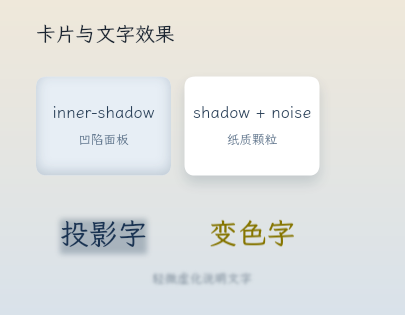
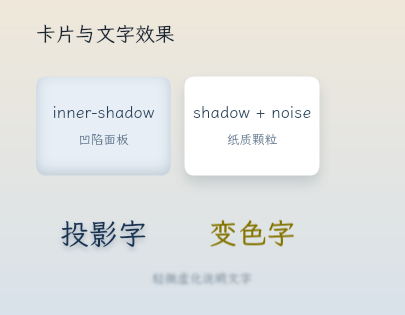
fix: apply effects to ink alpha, not layout boxes
Text shadow/glow/inner/noise follow glyph silhouettes so
projection matches real strokes instead of a blurred box.

Changed region(s): [[0.1481, 0.6857, 0.3852, 0.8286]]

diff --git a/src/paint.ts b/src/paint.ts
@@ -395,17 +395,27 @@ function paintGlow(ctx: CanvasRenderingContext2D, state: PaintState, node: Layou
   drawEffect(ctx, state, node, { ...wide, blur: Math.max(2, glow.blur * 0.35) }, drawSilhouette, 'screen')
 }
 
-function drawNodeSilhouette(
-  ctx: CanvasRenderingContext2D,
-  node: LayoutNode,
-  spread: number,
-  glyphs: boolean,
-  ink = SILHOUETTE,
-) {
-  if (node.kind === 'line') drawLine(ctx, node, true, spread)
-  else if (node.kind === 'shape') drawShapeSilhouette(ctx, node, spread, ink)
-  else if (node.kind === 'text' && glyphs) drawTextNode(ctx, node, ink)
-  else drawBoxSilhouette(ctx, node, spread, ink)
+/**
+ * 效果用的着墨轮廓：跟真实画出来的像素走，不跟布局盒子。
+ * 文字 = 背景 chrome（若有）+ 字形；形状/线 = 几何墨迹；Layer/flex = 仅自身背景/边框。
+ */
+function drawNodeInk(ctx: CanvasRenderingContext2D, node: LayoutNode, spread: number, ink = SILHOUETTE) {
+  if (node.kind === 'line') {
+    drawLine(ctx, node, true, spread)
+    return
+  }
+  if (node.kind === 'shape') {
+    drawShapeSilhouette(ctx, node, spread, ink)
+    return
+  }
+  if (node.kind === 'text') {
+    if (node.background && node.background !== 'transparent') drawBoxSilhouette(ctx, node, spread, ink)
+    drawTextNode(ctx, node, ink)
+    return
+  }
+  if ((node.background && node.background !== 'transparent') || (node.border && node.border.width > 0)) {
+    drawBoxSilhouette(ctx, node, spread, ink)
+  }
 }
 
 function transformScale(ctx: CanvasRenderingContext2D): number {
@@ -415,42 +425,11 @@ function transformScale(ctx: CanvasRenderingContext2D): number {
   return Math.sqrt(Math.abs(matrix.a * matrix.d - matrix.b * matrix.c)) || 1
 }
 
-function clipToNode(ctx: CanvasRenderingContext2D, node: LayoutNode) {
-  ctx.beginPath()
-  if (node.kind === 'shape') {
-    if (node.shape === 'circle') {
-      ctx.arc(node.x + node.width / 2, node.y + node.height / 2, node.r ?? node.width / 2, 0, Math.PI * 2)
-    } else if (node.shape === 'ellipse') {
-      ctx.ellipse(
-        node.x + node.width / 2,
-        node.y + node.height / 2,
-        node.rxEllipse ?? node.width / 2,
-        node.ry ?? node.height / 2,
-        0,
-        0,
-        Math.PI * 2,
-      )
-    } else if (node.borderRadius && node.borderRadius > 0) {
-      roundRectPath(ctx, node.x, node.y, node.width, node.height, node.borderRadius)
-    } else if (node.rx && node.rx > 0) {
-      roundRectPath(ctx, node.x, node.y, node.width, node.height, node.rx)
-    } else {
-      ctx.rect(node.x, node.y, node.width, node.height)
-    }
-  } else if (node.borderRadius && node.borderRadius > 0) {
-    roundRectPath(ctx, node.x, node.y, node.width, node.height, node.borderRadius)
-  } else {
-    ctx.rect(node.x, node.y, node.width, node.height)
-  }
-  ctx.clip()
-}
-
 function paintInnerEffect(
   ctx: PaintCtx,
   node: LayoutNode,
   effect: { x: number; y: number; blur: number; spread: number; color: string },
   blend: 'source-over' | 'screen',
-  glyphs: boolean,
 ) {
   if (node.width <= 0 || node.height <= 0) return
   const k = transformScale(ctx)
@@ -464,13 +443,13 @@ function paintInnerEffect(
   const fctx = fill.getContext('2d') as PaintCtx
   fctx.setTransform(k, 0, 0, k, 0, 0)
   fctx.translate(-node.x + pad, -node.y + pad)
-  drawNodeSilhouette(fctx, node, Math.max(0, effect.spread), glyphs, effect.color)
+  drawNodeInk(fctx, node, Math.max(0, effect.spread), effect.color)
 
   const cut = createCanvas(tw, th)
   const cctx = cut.getContext('2d') as PaintCtx
   cctx.setTransform(k, 0, 0, k, 0, 0)
   cctx.translate(-node.x + pad, -node.y + pad)
-  drawNodeSilhouette(cctx, node, -Math.max(0, effect.spread), glyphs, '#000000')
+  drawNodeInk(cctx, node, -Math.max(0, effect.spread), '#000000')
 
   const cutSoft = createCanvas(tw, th)
   const sctx = cutSoft.getContext('2d') as PaintCtx
@@ -483,8 +462,16 @@ function paintInnerEffect(
   fctx.globalCompositeOperation = 'destination-out'
   fctx.drawImage(cutSoft, 0, 0)
 
+  // 内效果也按墨迹 alpha 裁切，避免文字落成方块阴影
+  const clip = createCanvas(tw, th)
+  const clipCtx = clip.getContext('2d') as PaintCtx
+  clipCtx.setTransform(k, 0, 0, k, 0, 0)
+  clipCtx.translate(-node.x + pad, -node.y + pad)
+  drawNodeInk(clipCtx, node, 0, '#ffffff')
+  fctx.globalCompositeOperation = 'destination-in'
+  fctx.drawImage(clip, 0, 0)
+
   ctx.save()
-  clipToNode(ctx, node)
   ctx.globalCompositeOperation = blend
   ctx.drawImage(fill, node.x - pad, node.y - pad, twLogic, thLogic)
   ctx.restore()
@@ -494,9 +481,12 @@ function paintNoise(ctx: PaintCtx, node: LayoutNode, noise: NoiseSpec) {
   const w = Math.max(1, Math.ceil(node.width))
   const h = Math.max(1, Math.ceil(node.height))
   if (node.width <= 0 || node.height <= 0 || noise.amount <= 0) return
-  const off = createCanvas(w, h)
+  const k = transformScale(ctx)
+  const tw = Math.max(1, Math.ceil(w * k))
+  const th = Math.max(1, Math.ceil(h * k))
+  const off = createCanvas(tw, th)
   const octx = off.getContext('2d') as PaintCtx
-  const img = octx.createImageData(w, h)
+  const img = octx.createImageData(tw, th)
   const data = img.data
   let colorR = 255
   let colorG = 255
@@ -530,8 +520,15 @@ function paintNoise(ctx: PaintCtx, node: LayoutNode, noise: NoiseSpec) {
     data[i + 3] = Math.round(255 * noise.amount)
   }
   octx.putImageData(img, 0, 0)
+  // 按墨迹 alpha 裁切，文字不会整块铺噪点
+  const clip = createCanvas(tw, th)
+  const clipCtx = clip.getContext('2d') as PaintCtx
+  clipCtx.setTransform(k, 0, 0, k, 0, 0)
+  clipCtx.translate(-node.x, -node.y)
+  drawNodeInk(clipCtx, node, 0, '#ffffff')
+  octx.globalCompositeOperation = 'destination-in'
+  octx.drawImage(clip, 0, 0)
   ctx.save()
-  clipToNode(ctx, node)
   ctx.globalCompositeOperation = 'soft-light'
   ctx.drawImage(off, node.x, node.y, node.width, node.height)
   ctx.restore()
@@ -565,8 +562,14 @@ function paintBackdropBlur(ctx: PaintCtx, node: LayoutNode, radius: number) {
   bctx.filter = `blur(${radius * k}px)`
   bctx.drawImage(src, 0, 0)
   bctx.filter = 'none'
+  // 按墨迹 alpha 贴回，文字/异形不会整块毛玻璃
+  const mask = createCanvas(sw, sh)
+  const mctx = mask.getContext('2d') as PaintCtx
+  mctx.setTransform(matrix.a, matrix.b, matrix.c, matrix.d, matrix.e - minX, matrix.f - minY)
+  drawNodeInk(mctx, node, 0, '#ffffff')
+  bctx.globalCompositeOperation = 'destination-in'
+  bctx.drawImage(mask, 0, 0)
   ctx.save()
-  clipToNode(ctx, node)
   ctx.setTransform(1, 0, 0, 1, 0, 0)
   ctx.drawImage(blurred, minX, minY)
   ctx.restore()
@@ -608,12 +611,12 @@ function paintNodeEffectsAndBody(
 ) {
   if (opts.backdrop && node.backdropBlur) paintBackdropBlur(ctx, node, node.backdropBlur)
   if (node.shadow) {
-    drawEffect(ctx, state, node, shadowEffect(node.shadow), (spread) => drawNodeSilhouette(ctx, node, spread, false))
+    drawEffect(ctx, state, node, shadowEffect(node.shadow), (spread) => drawNodeInk(ctx, node, spread))
   }
-  if (node.glow) paintGlow(ctx, state, node, node.glow, (spread) => drawNodeSilhouette(ctx, node, spread, true))
+  if (node.glow) paintGlow(ctx, state, node, node.glow, (spread) => drawNodeInk(ctx, node, spread))
   paintBody(ctx, node, debug, t, state)
   if (node.innerShadow) {
-    paintInnerEffect(ctx, node, node.innerShadow, 'source-over', node.kind === 'text')
+    paintInnerEffect(ctx, node, node.innerShadow, 'source-over')
   }
   if (node.innerGlow) {
     paintInnerEffect(
@@ -621,7 +624,6 @@ function paintNodeEffectsAndBody(
       node,
       { x: 0, y: 0, blur: node.innerGlow.blur, spread: node.innerGlow.spread, color: node.innerGlow.color },
       'screen',
-      node.kind === 'text',
     )
     paintInnerEffect(
       ctx,
@@ -634,7 +636,6 @@ function paintNodeEffectsAndBody(
         color: node.innerGlow.color,
       },
       'screen',
-      node.kind === 'text',
     )
   }
   if (node.noise) paintNoise(ctx, node, node.noise)

diff --git a/src/effects.spec.ts b/src/effects.spec.ts
@@ -125,4 +125,33 @@ describe('绘制', () => {
     expect(el?.blend).toBe('multiply')
     expect(el?.innerGlow?.blur).toBe(10)
   })
+
+  it('文字投影跟随字形墨迹，不是整块盒子', async () => {
+    // 「一」只有中间横笔；红影右移 20px。盒子上沿内侧若出现红斑，说明仍按 box 投影。
+    const { png, report } = await renderFvg(
+      `<fvg width="200" height="100" background="#ffffff" color="#0000ff">
+        <Layer cx="100" cy="50">
+          <h1 style="font-size:64px; color:#0000ff; shadow:20 0 0 #ff0000">一</h1>
+        </Layer>
+      </fvg>`,
+    )
+    const { at } = await pixels(png)
+    const h1 = report.elements.find((el) => el.tag === 'h1')!
+    const aboveStrokeX = Math.round(h1.box.left + h1.box.width / 2 + 20)
+    const aboveStrokeY = Math.round(h1.box.top + 6)
+    const above = at(aboveStrokeX, aboveStrokeY)
+    // 横笔上方应仍是白底（字形投影），不能是盒子投下的红块
+    expect(above[0]).toBeGreaterThan(240)
+    expect(above[1]).toBeGreaterThan(240)
+    expect(above[2]).toBeGreaterThan(240)
+    // 墨迹右侧应能采到红色投影
+    let red = 0
+    for (let y = Math.floor(h1.ink.top); y < Math.ceil(h1.ink.bottom); y++) {
+      for (let x = Math.floor(h1.ink.right); x < Math.min(200, Math.ceil(h1.ink.right + 28)); x++) {
+        const p = at(x, y)
+        if (p[0]! > 200 && p[1]! < 80 && p[2]! < 80) red++
+      }
+    }
+    expect(red).toBeGreaterThan(20)
+  })
 })

diff --git a/SPEC.md b/SPEC.md
@@ -275,7 +275,7 @@ gradient( [映射 ,] 颜色行 [ / 颜色行 ]* )
 
 `filter` 允许：`brightness()`、`contrast()`、`saturate()`、`grayscale()`、`sepia()`、`invert()`、`hue-rotate()`，空格分隔。比例写 `0–1` 或百分比；`hue-rotate` 用度（`15` 或 `15deg`）。`blend` 取值：`source-over`（默认）、`multiply`、`screen`、`overlay`、`soft-light`、`lighten`、`darken`。
 
-效果只影响绘制，不改变布局盒子。绘制顺序：`backdrop-blur` → `shadow` → `glow` → 本体 → `inner-shadow` → `inner-glow` → `noise`；若有 `blur` / `filter`，把阴影到噪点画进离屏再贴回。同时写了 `blur` 与 `filter` 时，图层模糊以 `blur` 为准，并报 `info`。细节与开放问题见 [docs/EFFECTS.md](docs/EFFECTS.md)。
+效果只影响绘制，不改变布局盒子。**一律按着墨（墨迹 / alpha）计算，不按布局盒子**：文字跟字形，形状跟几何填充，Layer/flex 跟自身背景或边框；`blur` / `filter` / `blend` 作用在已绘制像素上。绘制顺序：`backdrop-blur` → `shadow` → `glow` → 本体 → `inner-shadow` → `inner-glow` → `noise`；若有 `blur` / `filter`，把阴影到噪点画进离屏再贴回。同时写了 `blur` 与 `filter` 时，图层模糊以 `blur` 为准，并报 `info`。细节见 [docs/EFFECTS.md](docs/EFFECTS.md)。
 
 ## 8. 布局报告
 

diff --git a/docs/EFFECTS.md b/docs/EFFECTS.md
@@ -18,9 +18,22 @@
 
 绘制顺序：`backdrop-blur` → `shadow` → `glow` → 本体 → `inner-shadow` → `inner-glow` → `noise`；若有 `blur` 或 `filter`，阴影到噪点先画进离屏再贴回。
 
+## 墨迹原则
+
+所有效果跟**着墨 alpha**，不跟布局 `box`：
+
+| 元素 | 墨迹是什么 |
+| --- | --- |
+| 文字 | 字形（若有 `background` 则加上背景块） |
+| 形状 / 线 | 填充与描边几何 |
+| Layer / flex | 自身的 `background` / `border`（子元素各自算） |
+| `blur` / `filter` / `blend` | 该节点已绘制像素（含子树合成） |
+
+因此文字 `shadow` 是字形投影，不会落成一块矩形雾斑。
+
 ## 取舍
 
-- `backdrop-blur` 在主画布上采样；若同元素还有图层 `blur`，毛玻璃本身不再被二次糊进离屏（半透明本体与图层模糊仍会作用）。
+- `backdrop-blur` 在主画布上采样，贴回时按墨迹 alpha 裁切。
 - `filter` 不含 `blur()` / `drop-shadow()`，避免与 `blur` / `shadow` 双通道。
 - 同时写 `blur` 与 `filter`：模糊以 `blur` 为准，报 `info`。
 - 勿占用：`outer-glow`、`drop-shadow`、`backdrop-filter`、`texture`、`glass`。
